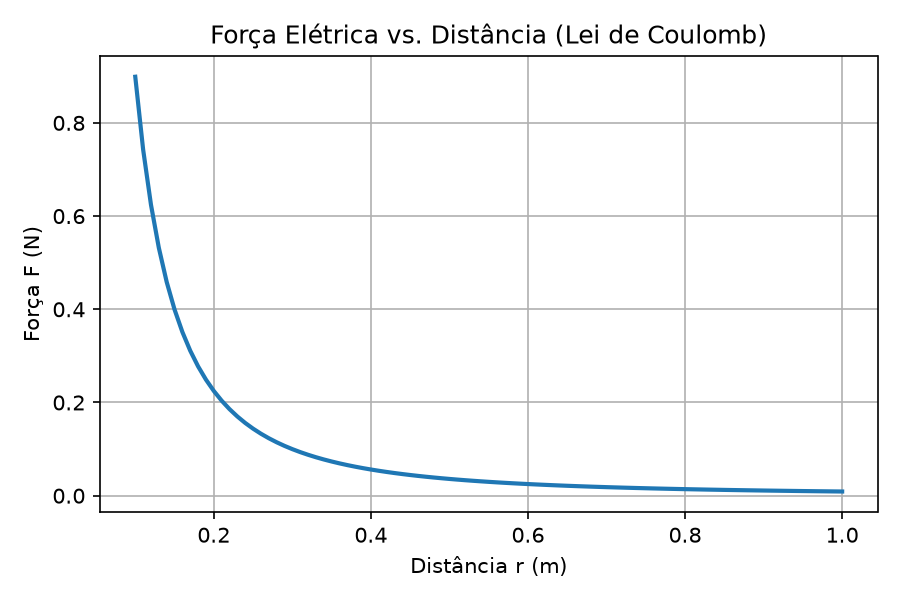
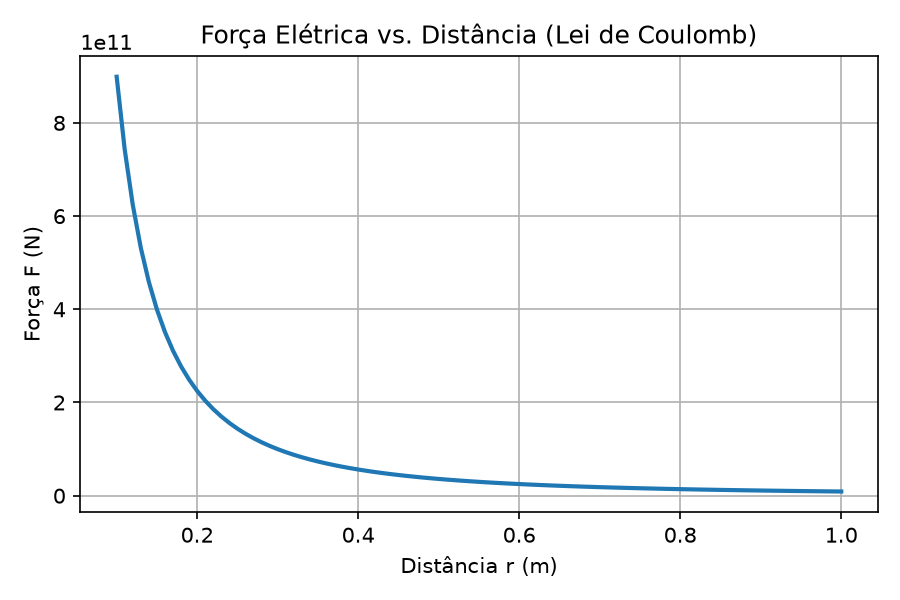
energia potencial eletrica final

diff --git a/grafico_energia.py b/grafico_energia.py
@@ -1,0 +1,22 @@
+import matplotlib.pyplot as plt
+
+# Constantes físicas (mesmos valores do relatório em LaTeX)
+k = 8.99e9   # N·m²/C²
+q1 = 1e-6    # 1 µC
+q2 = 1e-6    # 1 µC
+Q = 1
+
+# Distâncias de 0,10 m até 1,00 m (passo de 0,01 m)
+distancias = [0.10 + i * 0.01 for i in range(91)]
+forcas = [k * Q/ (r * r) for r in distancias]
+
+plt.figure(figsize=(6, 4))
+plt.plot(distancias, forcas, color="tab:blue", linewidth=2)
+plt.title("Força Elétrica vs. Distância (Lei de Coulomb)")
+plt.xlabel("Distância r (m)")
+plt.ylabel("Força F (N)")
+plt.grid(True)
+plt.tight_layout()
+plt.savefig("forca_energia.png", dpi=150)
+print("Gráfico salvo em forca_energia.png!")
+

diff --git a/grafico_forca.py b/grafico_forca.py
@@ -16,6 +16,6 @@ plt.xlabel("Distância r (m)")
 plt.ylabel("Força F (N)")
 plt.grid(True)
 plt.tight_layout()
-plt.savefig("forca_coulomb.png", dpi=150)
+plt.savefig("forca_energi.png", dpi=150)
 print("Gráfico salvo em forca_coulomb.png!")
 
